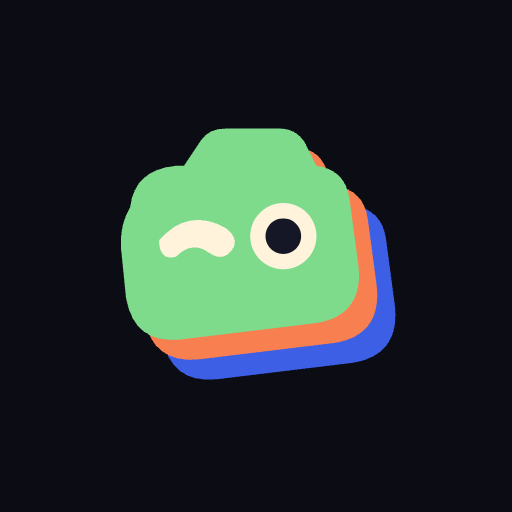
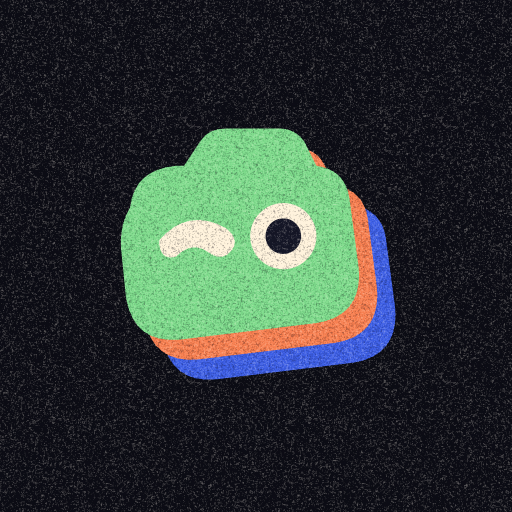
El grano mate: cada material con su textura, y la imagen limpia
El aparato deja de ser un color plano de pantalla. El plástico (carcasa, teclas,
hojas, lanzador, consolas) lleva un grano con relieve, iluminado como la carcasa;
lo lustroso y el cristal (botones redondos, disparador, pantallita, miniatura),
uno leve; el logo de la portada, la página de entrada y el icono, grano de
película. El visor, los lienzos de los diez módulos, las fotos y lo que flota
sobre ellos no llevan ninguno: la imagen no tiene más filtro que el de su cámara.

Las capas son estáticas y se componen sin modos de fusión: medido con
tests/energy.cjs --grano no, la cámara gasta lo mismo con grano que sin él. Sigue
el canto redondeado de la carcasa, no deja franjas entre piezas y se quita con la
tecla GRANO del lanzador (se recuerda). tests/grain.cjs lo comprueba tiñendo el
grano y contando píxeles. Caché v95.

diff --git a/docs/shell.js b/docs/shell.js
@@ -115,6 +115,85 @@
   }
   if (window.flipRollo) flipRollo.mount(splashEl, deck, launcher);
 
+  // ── Grano mate ──────────────────────────────────────────────────────────────
+  // Cada material del aparato lleva su grano (shell.css, .grano): relieve en el plástico, apenas
+  // en lo lustroso y en el cristal, de película en el logo de la portada. El visor, los lienzos de
+  // los módulos, las fotos y lo que flota sobre ellos (avisos, la barra de exportar, el ajuste de
+  // SFLOW) no están en ninguna lista: la imagen se queda limpia. Se enciende y se apaga con la tecla GRANO del lanzador (y se recuerda).
+  const GRANO_BARRAS = '#shellTop, #camDeck, #flipBottomNav, #barSflow, #barEdit, #barStage, #scrashControls, #fusionHUD, #sonoHUD, #wmpHUD, #editHUD, .rig-side';
+  const GRANO_HOJAS = '#lcd, #flipSettingsPanel, #shellLauncher, #shellViewer, #splash, #asciiPanel, #upPanel, .rig-panel, .cs-rack';
+  const GRANO_PIEZAS = '.hw-candy, #deckShutter, .hw-lcd, #deckGallery';
+  const GRANO_KEY = 'flip.rollo.grano';
+  let granoTimer = 0;
+  const granoSoon = () => { clearTimeout(granoTimer); granoTimer = setTimeout(grano, 140); };
+  // Si una pieza rehace su contenido (la pantallita al arrancar), su capa vuelve sola.
+  const granoWatch = new MutationObserver(() => granoSoon());
+  const capaGrano = (host, kind) => {
+    let layer = host.querySelector(':scope > .grano');
+    if (!layer) {
+      layer = el('i', { class: 'grano' + (kind ? ' ' + kind : ''), 'aria-hidden': 'true' });
+      host.appendChild(layer);
+      if (getComputedStyle(host).position === 'static') host.classList.add('grano-ancla');
+      granoWatch.observe(host, { childList: true });
+    }
+    return layer;
+  };
+  function grano() {
+    if (document.body.dataset.grano === 'no') return;
+    document.querySelectorAll(GRANO_BARRAS + ', ' + GRANO_HOJAS).forEach(surface => {
+      const layer = capaGrano(surface);
+      if (surface.id === 'lcd') return;
+      // Una hoja con desplazamiento: el grano cubre todo su contenido, no solo lo que asoma.
+      if (layer.style.height) layer.style.height = '';
+      if (surface.scrollHeight > surface.clientHeight + 1) layer.style.height = surface.scrollHeight + 'px';
+    });
+    // Las piezas están pintadas en su borde (border-image): su capa cubre la pieza entera.
+    document.querySelectorAll(GRANO_PIEZAS).forEach(piece => {
+      const layer = capaGrano(piece, 'leve'), style = getComputedStyle(piece);
+      const b = ['Left', 'Top', 'Right', 'Bottom'].map(side => parseFloat(style['border' + side + 'Width']) || 0);
+      const box = b.join(' ');
+      if (layer.dataset.borde === box) return;
+      layer.dataset.borde = box;
+      layer.style.left = -b[0] + 'px'; layer.style.top = -b[1] + 'px';
+      layer.style.width = 'calc(100% + ' + (b[0] + b[2]) + 'px)'; layer.style.height = 'calc(100% + ' + (b[1] + b[3]) + 'px)';
+    });
+    const hero = document.querySelector('.splash-hero');
+    if (hero) capaGrano(hero, 'pelicula');
+    // La carcasa de fondo lleva su grano en todo menos donde hay una barra, que trae el suyo:
+    // así no hay franja sin grano entre piezas ni sitio donde se junten dos capas.
+    const body = $('camBody');
+    if (body) {
+      const layer = capaGrano(body), base = layer.getBoundingClientRect();
+      let path = 'M0 0H' + base.width.toFixed(1) + 'V' + base.height.toFixed(1) + 'H0Z';
+      document.querySelectorAll(GRANO_BARRAS).forEach(bar => {
+        const r = bar.getBoundingClientRect(), style = getComputedStyle(bar);
+        if (r.width < 8 || r.height < 8 || style.display === 'none' || style.visibility === 'hidden') return;
+        path += 'M' + (r.left - base.left).toFixed(1) + ' ' + (r.top - base.top).toFixed(1) + 'h' + r.width.toFixed(1) + 'v' + r.height.toFixed(1) + 'h' + (-r.width).toFixed(1) + 'Z';
+      });
+      layer.style.clipPath = 'path(evenodd, "' + path + '")';
+    }
+  }
+  const setGrano = on => {
+    document.body.dataset.grano = on ? 'si' : 'no';
+    try { localStorage.setItem(GRANO_KEY, on ? 'si' : 'no'); } catch (_) {}
+    const key = $('rolloGrano');
+    if (key) { key.textContent = on ? 'SIN GRANO' : 'CON GRANO'; key.setAttribute('aria-pressed', String(on)); }
+    if (on) grano();
+  };
+  let granoOn = true;
+  try { granoOn = localStorage.getItem(GRANO_KEY) !== 'no'; } catch (_) {}
+  const head = launcher.querySelector('.launcher-head');
+  if (head) {
+    const key = el('button', { type: 'button', id: 'rolloGrano', class: 'hw hw-keycap', 'aria-label': 'Poner o quitar el grano mate del aparato' });
+    key.addEventListener('click', () => setGrano(document.body.dataset.grano === 'no'));
+    head.insertBefore(key, head.querySelector('#launcherClose'));
+  }
+  setGrano(granoOn);
+  new MutationObserver(granoSoon).observe(document.body, { attributes: true, attributeFilter: ['data-tab', 'data-tema'] });
+  addEventListener('click', granoSoon, true);
+  addEventListener('resize', granoSoon);
+  window.flipGrano = { paint: grano, set: setGrano, on: () => document.body.dataset.grano !== 'no' };
+
   // ── Geometría del visor ─────────────────────────────────────────────────────
   // relayout() pregunta aquí cuánto mide el cristal donde va el visor de CAM.
   window.flipShellGlass = function () {

diff --git a/docs/shell.css b/docs/shell.css
@@ -951,3 +951,57 @@ body.portal-mode #osdHint { bottom: 52px; }
 body.is-resting :is(#display, #asciiCanvas, #sflowCanvas, #scrashCanvas, #fusionCanvas, #editCanvas),
 body.is-waking :is(#display, #asciiCanvas, #sflowCanvas, #scrashCanvas, #fusionCanvas, #editCanvas) { opacity: .16; }
 
+/* ── Grano mate ──────────────────────────────────────────────────────────────
+   El aparato no es un color plano de pantalla: cada material lleva su grano.
+   · El plástico (carcasa, teclas, hojas, lanzador): grano con relieve, iluminado como la carcasa.
+   · Lo lustroso y el cristal (botones redondos, disparador, pantallita, miniatura): apenas.
+   · Lo que se ve en un cristal apagado (el logo de la portada): grano de película.
+   · El visor, los lienzos de los módulos y las fotos: nada. La imagen no lleva más filtro que el
+     de su cámara.
+   Las capas las pone shell.js (grano()); son estáticas y se componen sin modos de fusión, así
+   que no cuestan nada mientras la cámara pinta. Se quita con la tecla GRANO del lanzador. */
+.grano {
+  position: absolute; left: 0; top: 0; width: 100%; height: 100%; z-index: 2147483000; pointer-events: none; border-radius: inherit;
+  background: url('./body/grano-relieve.webp') 0 0 / 128px 128px repeat;
+}
+body[data-grano="no"] .grano { display: none; }
+.grano-ancla { position: relative; }
+.grano.pelicula { background-image: url('./body/grano.webp'); }
+/* Piezas lustrosas o de cristal: salen por encima del grano de su superficie y llevan el suyo, leve. */
+:is(.hw-candy, #deckShutter, .hw-lcd, #deckGallery) { z-index: 2147483001; }
+.grano.leve { z-index: 3; opacity: .36; background-image: url('./body/grano.webp'); }
+:is(.hw-candy, #deckShutter) > .grano.leve { border-radius: 50%; }
+/* El grano no se sale de la carcasa: sigue su canto redondeado (las mismas medidas que su render). */
+body { --grano-margen: calc(100vw / 406 * 3.4); --grano-canto: calc(100vw / 406 * 21.6); }
+@media (min-width: 520px) { body { --grano-margen: 3px; --grano-canto: 22px; } }
+:is(#shellLauncher, #shellViewer, #splash) > .grano {
+  left: var(--grano-margen); top: var(--grano-margen); width: calc(100% - var(--grano-margen) * 2); height: calc(100% - var(--grano-margen) * 2); border-radius: var(--grano-canto);
+}
+#shellTop > .grano {
+  left: var(--grano-margen); top: var(--grano-margen); width: calc(100% - var(--grano-margen) * 2); height: calc(100% - var(--grano-margen));
+  border-radius: var(--grano-canto) var(--grano-canto) 0 0;
+}
+:is(#camDeck, #flipBottomNav, #barSflow, #barEdit, #barStage) > .grano {
+  left: var(--grano-margen); width: calc(100% - var(--grano-margen) * 2); height: calc(100% - var(--grano-margen));
+  border-radius: 0 0 var(--grano-canto) var(--grano-canto);
+}
+/* La carcasa de fondo: z 0 dentro de #camBody; shell.js le recorta las barras, que ya traen su capa. */
+#camBody > .grano { z-index: 0; border-radius: 0; left: var(--grano-margen); width: calc(100% - var(--grano-margen) * 2); }
+/* El marco del visor: solo el aro, no el cristal. */
+#lcd > .grano {
+  left: calc(var(--bw22, 22px) * -1); top: calc(var(--bw22, 22px) * -1); width: calc(100% + var(--bw22, 22px) * 2); height: calc(100% + var(--bw22, 22px) * 2);
+  /* El aro claro es la mitad de fuera del marco; la de dentro es la junta oscura del cristal. */
+  box-sizing: border-box; padding: calc(var(--bw22, 22px) * .46); border-radius: 0; z-index: 5;
+  -webkit-mask: linear-gradient(#000 0 0) content-box, linear-gradient(#000 0 0); -webkit-mask-composite: xor;
+  mask: linear-gradient(#000 0 0) content-box exclude, linear-gradient(#000 0 0);
+}
+/* La portada: el relieve no entra en el cristal de su pantalla (mismas medidas que .splash-hero);
+   ahí dentro el logo lleva grano de película. */
+#splash > .grano {
+  --hx: calc(32.5px - var(--grano-margen)); --hy: calc(36.5px + env(safe-area-inset-top, 0px) - var(--grano-margen));
+  -webkit-mask: linear-gradient(#000 0 0) var(--hx) var(--hy) / calc(100% - var(--hx) * 2) calc(100% - var(--hy) - 340.5px + var(--grano-margen)) no-repeat, linear-gradient(#000 0 0); -webkit-mask-composite: xor;
+  mask: linear-gradient(#000 0 0) var(--hx) var(--hy) / calc(100% - var(--hx) * 2) calc(100% - var(--hy) - 340.5px + var(--grano-margen)) no-repeat exclude, linear-gradient(#000 0 0);
+}
+.splash-hero > .grano { left: -11.5px; top: -11.5px; width: calc(100% + 23px); height: calc(100% + 23px); border-radius: 7.5px; z-index: 4; }
+/* En el visor de fotos, la foto queda por encima del grano. */
+.viewer-stage img, .viewer-stage video { position: relative; z-index: 2147483001; }

diff --git a/docs/sw.js b/docs/sw.js
@@ -1,4 +1,4 @@
-const CACHE = 'flipnote-filter-v94-portada';
+const CACHE = 'flipnote-filter-v95-grano';
 const ASSETS = [
   './index.html', './manifest.json', './icon-192.png', './icon-512.png', './frame-runtime.js', './stamp.js', './optical-scope.js', './press.js',
   './night-vision.js', './sensor.js', './silhouette.js', './silhouette-worker.js', './shell.css', './shell.js', './console.css', './console.js',
@@ -8,7 +8,7 @@ const ASSETS = [
   './body/bezel.webp', './body/candy-graphite-down.webp', './body/candy-graphite.webp', './body/candy-lilac-down.webp', './body/candy-lilac.webp',
   './body/candy-white-down.webp', './body/candy-white.webp', './body/console-key-down-on.webp', './body/console-key-down.webp',
   './body/console-key-on.webp', './body/console-key.webp', './body/console-nub.webp', './body/console-plate.webp', './body/console-scale.webp',
-  './body/console-sel2.webp', './body/console-sel3.webp', './body/console-slide.webp', './body/dial-cream.webp', './body/grain.webp',
+  './body/console-sel2.webp', './body/console-sel3.webp', './body/console-slide.webp', './body/dial-cream.webp', './body/grain.webp','./body/grano.webp', './body/grano-relieve.webp', 
   './body/jack.webp', './body/keycap-gray-down.webp', './body/keycap-gray.webp', './body/knob.webp', './body/lcd.webp', './body/look-AUTO03.webp',
   './body/look-CASKIA.webp', './body/look-DLPHN.webp', './body/look-DSI.webp', './body/look-OSCAM.webp', './body/look-PRENSA.webp', './body/look-SLHT.webp',
   './body/look-STAMP.webp', './body/look-VFD.webp', './body/nub.webp', './body/shell-bottom.webp', './body/shell-foot.webp', './body/shell-mid.webp',

diff --git a/docs/hola/index.html b/docs/hola/index.html
@@ -57,6 +57,10 @@
     .tecla.clara:active { box-shadow: 0 1px 0 #B9AE94, inset 0 1px 0 #fff; }
     .tecla:focus-visible, a:focus-visible, video:focus-visible { outline: 3px solid var(--verde); outline-offset: 3px; }
     [hidden] { display: none !important; }
+    /* El grano mate de la marca, encima de toda la página menos de la película y de las muestras:
+       esas enseñan lo que hace cada cámara y no llevan más filtro que el suyo. */
+    .grano { position: fixed; inset: 0; z-index: 5; pointer-events: none; background: url('../body/grano.webp') 0 0 / 128px 128px repeat; }
+    .camaras img, .pelicula video { position: relative; z-index: 6; }
 
     header { display: flex; align-items: center; justify-content: space-between; padding: calc(18px + env(safe-area-inset-top, 0px)) 0 0; }
     header img { display: block; width: 104px; height: auto; }
@@ -128,6 +132,7 @@
   </style>
 </head>
 <body>
+<div class="grano" aria-hidden="true"></div>
 <header class="ancho">
   <img src="../brand/rollo-en-anil/marca/horizontal-clara.svg" alt="FLIP" width="242" height="66">
   <a class="abrir" href="../" data-abrir>Abrir FLIP</a>

diff --git a/design/camera-body/grano.py b/design/camera-body/grano.py
@@ -1,0 +1,50 @@
+# El grano mate: dos teselas de ruido fino, la mitad motas oscuras y la mitad claras, que la interfaz
+# tiende encima de cada superficie (nunca del visor) para que el plástico, las teclas y el logo
+# tengan la textura de algo impreso o aerografiado y no de un color plano de pantalla.
+#   python3 design/camera-body/grano.py [salida=docs/body/grano.webp] [lado=256] [fuerza=1.0]
+# Cada mota es blanca o negra y lo que varía es su opacidad: así pesa poco y se compone sin modos
+# de fusión (que obligarían a recomponer la pantalla entera en cada cuadro de la cámara).
+import os
+import random
+import sys
+from PIL import Image, ImageFilter
+
+out = sys.argv[1] if len(sys.argv) > 1 else os.path.join(os.path.dirname(os.path.abspath(__file__)), '..', '..', 'docs', 'body', 'grano.webp')
+side = int(sys.argv[2]) if len(sys.argv) > 2 else 256
+gain = float(sys.argv[3]) if len(sys.argv) > 3 else 1.0
+random.seed(27)
+# Ruido gaussiano, apenas suavizado para que las motas tengan cuerpo (no un píxel suelto), y
+# envuelto en los bordes para que la tesela no tenga costura.
+field = Image.new('L', (side * 3, side * 3))
+base = [min(255, max(0, int(random.gauss(128, 46)))) for _ in range(side * side)]
+tile = Image.new('L', (side, side)); tile.putdata(base)
+for ty in range(3):
+    for tx in range(3):
+        field.paste(tile, (tx * side, ty * side))
+soft = field.filter(ImageFilter.GaussianBlur(0.55)).crop((side, side, side * 2, side * 2))
+values = list(soft.getdata())
+mean = sum(values) / len(values)
+spread = (sum((v - mean) ** 2 for v in values) / len(values)) ** 0.5
+def write(path, signed, dark, light):
+    """signed: una mota por píxel, en desviaciones típicas (negativa oscurece, positiva aclara)."""
+    pixels = []
+    for n in signed:
+        if n < 0:
+            pixels.append(dark[:3] + (round(min(1.0, -n * dark[3] * gain) * 255 / 8) * 8,))
+        else:
+            pixels.append(light[:3] + (round(min(1.0, n * light[3] * gain) * 255 / 8) * 8,))
+    image = Image.new('RGBA', (side, side)); image.putdata(pixels)
+    image.save(path, lossless=True, quality=100, method=6) if path.endswith('.webp') else image.save(path)
+    print('grano:', os.path.relpath(path), os.path.getsize(path), 'bytes')
+
+
+signed = [(v - mean) / spread for v in values]
+# 1 · Grano de película: para lo impreso y lo que se ve en un cristal (el logo, la página).
+write(out, signed, (18, 14, 26, 0.115), (255, 248, 236, 0.095))
+# 2 · Grano con relieve: para el plástico. Es el mismo ruido visto como una superficie rugosa con
+#     la luz arriba a la izquierda: cada mota tiene su lado claro y su lado en sombra, y por eso
+#     se lee como textura que se puede tocar y no como ruido de pantalla.
+at = lambda x, y: signed[(y % side) * side + (x % side)]
+relief = [at(x, y) - at(x + 1, y + 1) for y in range(side) for x in range(side)]
+scale = (sum(v * v for v in relief) / len(relief)) ** 0.5
+write(out.replace('grano.', 'grano-relieve.'), [v / scale for v in relief], (58, 46, 28, 0.105), (255, 252, 244, 0.125))

diff --git a/tests/README.md b/tests/README.md
@@ -34,6 +34,7 @@ FLIP_URL=http://127.0.0.1:8760 node tests/run-all.cjs
 | `dither.cjs [--shots carpeta]` | Las tramas de DSi (perillas TRAMA y TAMAÑO de su consola): con una carta de grises fija, cada una de las seis —Bayer, Atkinson, ruido azul, puntos, líneas y rayado cruzado— deja el visor en dos tintas, pone más tinta cuanto más oscuro, dibuja distinto de las demás y no se mueve con la imagen quieta; ×2 engorda el dibujo; la perilla cambia la trama y la pantallita lo dice; la foto sale como el visor; el ajuste se conserva al recargar; y DSi · LGCY y UPLOAD no cambian. |
 | `brand.cjs [--shots carpeta]` | La marca «Rollo en añil»: que todo lo que precarga el service worker y los iconos del manifiesto existan; que la portada enseñe el logo vivo (en bucle y dentro de su pantalla, y quieto al encender la cámara), la marca y la tipografía servida por la app; que al encender la cámara la pantallita corra la secuencia de matriz de puntos y vuelva a su estado; que disparador, botones, teclas, carcasa y firma sean los renders de la marca; que la tecla CARCASA cambie a la oscura (marcos hundidos oscuros, serigrafía legible, y tinta oscura en la hoja de ajustes y en las teclas claras: nada de claro sobre claro) y que la elección se recuerde al recargar. |
 | `landing.cjs [--shots carpeta]` | La página de entrada (`docs/hola/`), en tres anchos: que carguen sus tipografías e imágenes sin errores, que no se desborde de lado, que sus puertas lleven a la app y lo dejen anotado, que la tecla Instalar solo aparezca cuando el navegador la ofrece, que el logo esté vivo y que la película espere callada y con portada. |
+| `grain.cjs` | El grano mate: tiñe el grano de magenta y cuenta píxeles. Que la portada, la barra de arriba, el pupitre y el aro del marco lo lleven, sin franjas de carcasa sin grano; que las piezas lustrosas y de cristal lleven el suyo; que **ni un píxel** caiga sobre el visor ni sobre el lienzo de ninguno de los diez módulos; que la tecla GRANO del lanzador lo quite, lo ponga y se recuerde; y que en la página de entrada la película y las muestras queden limpias. |
 | `press.cjs [--shots carpeta]` | La cámara PRENSA (semitono de imprenta: CMYK, DIARIO y RISO). Con campos de color pintados en la propia prueba: que cada gris más oscuro lleve más tinta, del papel limpio a la tinta llena; que los primarios sobrevivan a la separación y un gris no se tiña; que DIARIO sea de una tinta; que PUNTO cambie el tamaño del punto y este sea proporcional a la imagen (la foto grande es el visor ampliado); que REGISTRO descuadre las planchas; que el espejo sea espejo y la imagen quieta no baile. Y en la app: bandeja, mandos de cada tirada, pantallita, foto igual al visor, ajustes que se conservan, la gráfica que se suelta y vuelve, y la caída al punto a una tinta sin WebGL. |
 
 Fuera de la batería, porque tardan o levantan su propio servidor:
